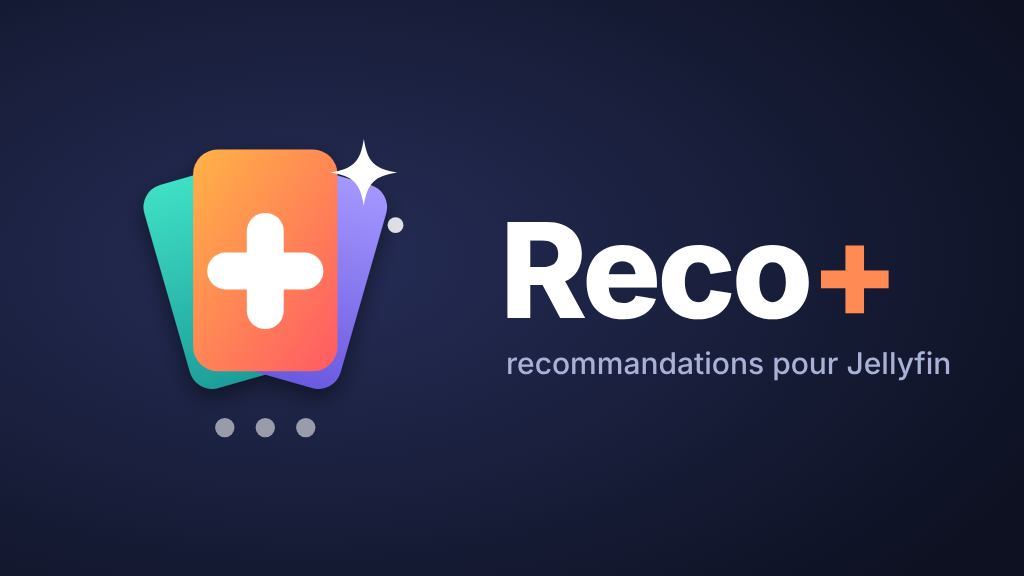
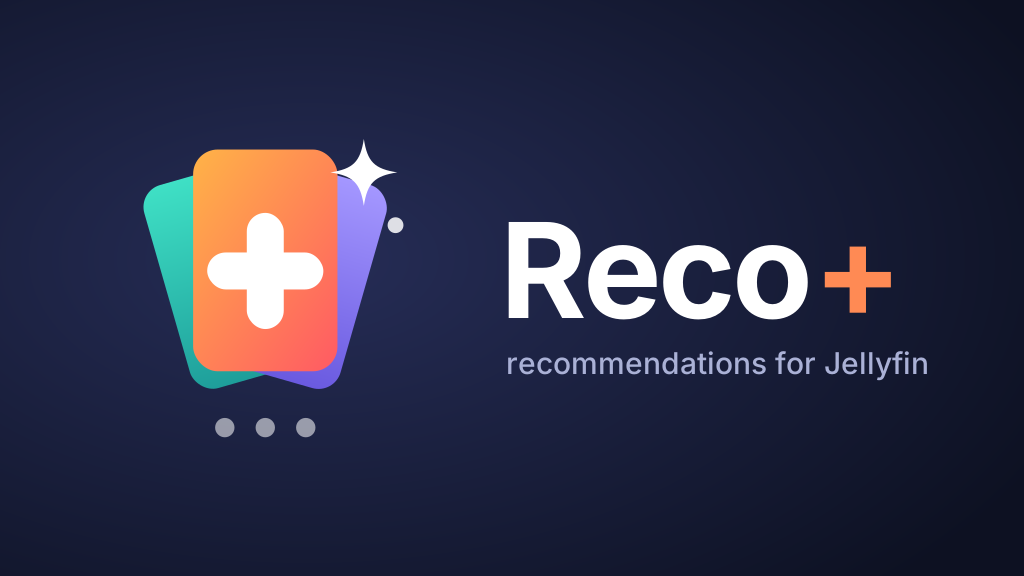
Everything defaults to English (1.0.27.0)
Server logs, plugin image tagline, catalogue description and overview,
changelog, home page fallback texts and the calibration export file name
are now in English. The interface language still follows Jellyfin by
default; French stays the source language of the interface texts.

Claude-Session: https://claude.ai/code/session_015P8WLcKmN2jYSQsWKAwqmE

diff --git a/src/Jellyfin.Plugin.RecoPlus/Web/configPage.html b/src/Jellyfin.Plugin.RecoPlus/Web/configPage.html
@@ -1155,7 +1155,7 @@
                 st.textContent = t('préparation…');
                 ApiClient.ajax({ type: 'GET', url: ApiClient.getUrl('RecoPlus/Calibration/Export'), dataType: 'text' }).then(function (text) {
                     var url = URL.createObjectURL(new Blob([text], { type: 'application/json' }));
-                    var a = el('a', { href: url, download: 'reco-calibrage-' + new Date().toISOString().slice(0, 10) + '.json' });
+                    var a = el('a', { href: url, download: 'reco-calibration-' + new Date().toISOString().slice(0, 10) + '.json' });
                     document.body.appendChild(a); a.click(); a.remove();
                     setTimeout(function () { URL.revokeObjectURL(url); }, 10000);
                     st.textContent = tf('téléchargé ({0} Ko)', Math.round(text.length / 1024));

diff --git a/src/Jellyfin.Plugin.RecoPlus/Web/client.js b/src/Jellyfin.Plugin.RecoPlus/Web/client.js
@@ -12,7 +12,7 @@
 (function () {
     'use strict';
     // textes de l'interface, remplacés par ceux du serveur (dans la langue retenue) dès la première réponse
-    var TX = { request: 'Demander', requested: '✓ demandé', failed: 'Demande impossible', series: 'série', because: 'Parce que tu as aimé {0}', title: 'À découvrir pour toi' };
+    var TX = { request: 'Request', requested: '✓ requested', failed: 'Request failed', series: 'series', because: 'Because you liked {0}', title: 'Discover for you' };
     if (window.__recoPlusClient) { return; }
     window.__recoPlusClient = true;
 

diff --git a/src/Jellyfin.Plugin.RecoPlus/Service/RecoService.cs b/src/Jellyfin.Plugin.RecoPlus/Service/RecoService.cs
@@ -122,7 +122,7 @@ public sealed class RecoService : IDisposable
                     }
                     catch (Exception ex) when (ex is not OutOfMemoryException)
                     {
-                        _log.LogWarning("Reco+ : vecteurs de contenu indisponibles ({Msg})", ex.Message);
+                        _log.LogWarning("Reco+: content vectors unavailable ({Msg})", ex.Message);
                     }
                 }
 
@@ -227,13 +227,13 @@ public sealed class RecoService : IDisposable
                         }
 
                         Status.UsersWithRecs = _recs.Count;
-                        _log.LogInformation("Reco+ : {N} listes rechargées depuis le cache disque", _recs.Count);
+                        _log.LogInformation("Reco+: {N} lists reloaded from the disk cache", _recs.Count);
                     }
                 }
             }
             catch (Exception ex) when (ex is IOException or JsonException or UnauthorizedAccessException)
             {
-                _log.LogWarning("Reco+ : cache disque illisible ({Type}), il sera recalculé", ex.GetType().Name);
+                _log.LogWarning("Reco+: unreadable disk cache ({Type}), it will be recomputed", ex.GetType().Name);
             }
 
             _loaded = true;
@@ -272,7 +272,7 @@ public sealed class RecoService : IDisposable
         catch (Exception ex) when (ex is IOException or UnauthorizedAccessException)
         {
             Interlocked.Exchange(ref _dirty, 1);
-            _log.LogWarning(ex, "Reco+ : écriture du cache impossible");
+            _log.LogWarning(ex, "Reco+: could not write the cache");
         }
     }
 
@@ -338,13 +338,13 @@ public sealed class RecoService : IDisposable
             {
                 Status.LastFullRun = DateTime.UtcNow;
                 Status.LastFullRunSeconds = Math.Round(sw.Elapsed.TotalSeconds, 1);
-                _log.LogInformation("Reco+ : calcul complet terminé en {S:0.0} s — {N} comptes, {E} titres hors bibliothèque ; Seerr : {Seerr}",
-                    sw.Elapsed.TotalSeconds, Status.UsersWithRecs, Status.ExternalTitles, Status.Seerr);
+                _log.LogInformation("Reco+: full computation finished in {S:0.0} s — {N} accounts, {E} titles outside the library; Seerr: {Seerr}",
+                    sw.Elapsed.TotalSeconds, Status.UsersWithRecs, Status.ExternalTitles, Texts.Render(Status.Seerr, "en"));
             }
             else
             {
                 Status.LastUserRun = DateTime.UtcNow;
-                _log.LogInformation("Reco+ : compte {User} recalculé en {Ms} ms", _users.GetUserById(only.Value)?.Username ?? only.Value.ToString("N"), sw.ElapsedMilliseconds);
+                _log.LogInformation("Reco+: account {User} recomputed in {Ms} ms", _users.GetUserById(only.Value)?.Username ?? only.Value.ToString("N"), sw.ElapsedMilliseconds);
             }
 
             Status.LastError = null;
@@ -356,7 +356,7 @@ public sealed class RecoService : IDisposable
         catch (Exception ex)
         {
             Status.LastError = $"{DateTime.UtcNow:u} {ex.GetType().Name}: {ex.Message}";
-            _log.LogError(ex, "Reco+ : échec du calcul (les listes précédentes restent servies)");
+            _log.LogError(ex, "Reco+: computation failed (previous lists are still served)");
         }
         finally
         {
@@ -465,7 +465,7 @@ public sealed class RecoService : IDisposable
             var extTargets = targets.Where(Active).ToList();
             if (only is null)
             {
-                _log.LogInformation("Reco+ : exploration Seerr pour {N} compte(s) actif(s) sur {T}", extTargets.Count, targets.Count);
+                _log.LogInformation("Reco+: Seerr exploration for {N} active account(s) out of {T}", extTargets.Count, targets.Count);
             }
             for (int i = 0; i < extTargets.Count; i++)
             {
@@ -473,7 +473,7 @@ public sealed class RecoService : IDisposable
                 var explored = await ExtendedCandidates(extTargets[i], ctx, lib, tmdbOf, seerr, cl, titles, colls, cfg, ct).ConfigureAwait(false);
                 if (_seerr.Down)
                 {
-                    _log.LogWarning("Reco+ : Seerr a lâché pendant l'exploration ; {N} compte(s) gardent leurs titres hors bibliothèque précédents", extTargets.Count - i);
+                    _log.LogWarning("Reco+: Seerr went down during exploration; {N} account(s) keep their previous titles outside the library", extTargets.Count - i);
                     break; // Seerr a lâché en route : ce compte et les suivants gardent leurs titres hors bibliothèque précédents
                 }
 

diff --git a/src/Jellyfin.Plugin.RecoPlus/Seerr/SeerrService.cs b/src/Jellyfin.Plugin.RecoPlus/Seerr/SeerrService.cs
@@ -204,7 +204,7 @@ public sealed class SeerrService
             }
 
             Failed(ex, ct);
-            _log.LogWarning("Reco+ : Seerr indisponible ({Msg}) — recommandations calculées sans lui", ex.Message);
+            _log.LogWarning("Reco+: Seerr unavailable ({Msg}) — recommendations computed without it", ex.Message);
             return Last = new SeerrSnapshot { Status = Texts.Pack("indisponible : {0}", SeerrException.TextOf(ex)) };
         }
     }
@@ -239,7 +239,7 @@ public sealed class SeerrService
             }
             catch (Exception ex) when (ex is IOException or JsonException or UnauthorizedAccessException)
             {
-                _log.LogWarning("Reco+ : cache des fiches Seerr illisible, repart de zéro");
+                _log.LogWarning("Reco+: unreadable Seerr details cache, starting from scratch");
             }
 
             // listes TMDb : gardées entre deux démarrages (sinon toute l'exploration est relue après un redémarrage)
@@ -269,7 +269,7 @@ public sealed class SeerrService
             }
             catch (Exception ex) when (ex is IOException or JsonException or UnauthorizedAccessException or NotSupportedException)
             {
-                _log.LogWarning("Reco+ : cache des listes Seerr illisible ({Type}), repart de zéro", ex.GetType().Name);
+                _log.LogWarning("Reco+: unreadable Seerr lists cache ({Type}), starting from scratch", ex.GetType().Name);
             }
 
             _loaded = true;
@@ -330,7 +330,7 @@ public sealed class SeerrService
             catch (Exception ex) when (ex is IOException or UnauthorizedAccessException)
             {
                 Interlocked.Exchange(ref _listsDirty, 1);
-                _log.LogWarning(ex, "Reco+ : écriture du cache des listes Seerr impossible");
+                _log.LogWarning(ex, "Reco+: could not write the Seerr lists cache");
             }
         }
 
@@ -349,7 +349,7 @@ public sealed class SeerrService
         catch (Exception ex) when (ex is IOException or UnauthorizedAccessException)
         {
             Interlocked.Exchange(ref _dirty, 1);
-            _log.LogWarning(ex, "Reco+ : écriture du cache Seerr impossible");
+            _log.LogWarning(ex, "Reco+: could not write the Seerr cache");
         }
     }
 
@@ -405,7 +405,7 @@ public sealed class SeerrService
         {
             Interlocked.Exchange(ref _downUntil, (DateTime.UtcNow + DownFor).Ticks);
             Interlocked.Exchange(ref _strikes, 0);
-            _log.LogWarning("Reco+ : Seerr ne répond plus ({Msg}) ; appels suspendus {Min} min, le calcul continue sans", ex.Message, DownFor.TotalMinutes);
+            _log.LogWarning("Reco+: Seerr is not responding ({Msg}); calls suspended for {Min} min, computation continues without it", ex.Message, DownFor.TotalMinutes);
         }
     }
 
@@ -461,7 +461,7 @@ public sealed class SeerrService
         {
             Failed(ex, ct);
             _failed[key] = DateTime.UtcNow + (ex is SeerrException { Status: System.Net.HttpStatusCode.NotFound } ? MissingTtl : FailedTtl);
-            _log.LogDebug("Reco+ : fiche {Key} indisponible ({Msg})", key, ex.Message);
+            _log.LogDebug("Reco+: details {Key} unavailable ({Msg})", key, ex.Message);
             return null;
         }
         finally
@@ -510,7 +510,7 @@ public sealed class SeerrService
                 catch (Exception ex) when (Transient(ex, ct))
                 {
                     Failed(ex, ct);
-                    _log.LogDebug("Reco+ : {Rel} de {Key} (page {Page}) indisponible ({Msg})", rel, key, page, ex.Message);
+                    _log.LogDebug("Reco+: {Rel} of {Key} (page {Page}) unavailable ({Msg})", rel, key, page, ex.Message);
                 }
                 finally
                 {
@@ -586,7 +586,7 @@ public sealed class SeerrService
         {
             Failed(ex, ct);
             _failed["l:" + key] = DateTime.UtcNow + (ex is SeerrException { Status: System.Net.HttpStatusCode.NotFound } ? MissingTtl : FailedTtl);
-            _log.LogDebug("Reco+ : liste {Key} indisponible ({Msg})", key, ex.Message);
+            _log.LogDebug("Reco+: list {Key} unavailable ({Msg})", key, ex.Message);
             return new List<SeerrResult>();
         }
         finally

diff --git a/src/Jellyfin.Plugin.RecoPlus/Service/RecoWorker.cs b/src/Jellyfin.Plugin.RecoPlus/Service/RecoWorker.cs
@@ -129,14 +129,14 @@ public sealed class RecoWorker : BackgroundService
                 var (tracked, missing) = _reco.UsersWithoutRecs();
                 if (missing.Count > 0 && missing.Count == tracked)
                 {
-                    _log.LogInformation("Reco+ : aucune liste en cache, calcul de tous les comptes");
+                    _log.LogInformation("Reco+: no cached list, computing all accounts");
                     ScheduleAll(TimeSpan.Zero);
                 }
                 else
                 {
                     foreach (var u in missing)
                     {
-                        _log.LogInformation("Reco+ : compte {User} sans liste, calcul de ce compte seulement", u);
+                        _log.LogInformation("Reco+: account {User} has no list, computing this account only", u);
                         _dueUsers[u] = DateTime.UtcNow;
                     }
                 }
@@ -171,7 +171,7 @@ public sealed class RecoWorker : BackgroundService
                     _dueUsers.Clear();
 
                     // calcul complet = tâche planifiée « Recalcul des recommandations » (visible, avec sa progression)
-                    _log.LogInformation("Reco+ : recalcul de tous les comptes mis en file (Tâches planifiées)");
+                    _log.LogInformation("Reco+: recomputation of all accounts queued (Scheduled Tasks)");
                     _tasks.QueueIfNotRunning<Tasks.NightlyTask>();
                     continue;
                 }
@@ -188,7 +188,7 @@ public sealed class RecoWorker : BackgroundService
                         catch (Exception ex) when (!stoppingToken.IsCancellationRequested)
                         {
                             // jamais d'arrêt du planificateur pour un calcul raté : l'erreur est dans l'état du moteur
-                            _log.LogError(ex, "Reco+ : échec du recalcul d'un compte");
+                            _log.LogError(ex, "Reco+: account recomputation failed");
                         }
                     }
                 }

diff --git a/src/Jellyfin.Plugin.RecoPlus/Integration/Notifier.cs b/src/Jellyfin.Plugin.RecoPlus/Integration/Notifier.cs
@@ -50,7 +50,7 @@ public sealed class Notifier
     public void Raise(string key, string title, string message)
     {
         _alerts[key] = new Alert(key, title, message, DateTime.UtcNow);
-        _log.LogWarning("Reco+ : {Title} — {Message}", Texts.Render(title, "fr"), Texts.Render(message, "fr"));
+        _log.LogWarning("Reco+: {Title} — {Message}", Texts.Render(title, "en"), Texts.Render(message, "en"));
         if (_sent.TryGetValue(key, out var last) && DateTime.UtcNow - last < TimeSpan.FromHours(24))
         {
             return;
@@ -75,7 +75,7 @@ public sealed class Notifier
         }
         catch (Exception ex)
         {
-            _log.LogWarning(ex, "Reco+ : écriture dans le journal d'activité impossible");
+            _log.LogWarning(ex, "Reco+: could not write to the activity log");
         }
 
         await SendWebhookAsync(title, message).ConfigureAwait(false);
@@ -155,7 +155,7 @@ public sealed class Notifier
         }
         catch (Exception ex) when (ex is HttpRequestException or TaskCanceledException or InvalidOperationException or FormatException)
         {
-            _log.LogWarning("Reco+ : webhook en échec ({Type})", ex.GetType().Name);
+            _log.LogWarning("Reco+: webhook failed ({Type})", ex.GetType().Name);
             return Texts.Pack("échec : {0}", ex.GetType().Name);
         }
     }

diff --git a/src/Jellyfin.Plugin.RecoPlus/Data/JellyfinEnhancedReader.cs b/src/Jellyfin.Plugin.RecoPlus/Data/JellyfinEnhancedReader.cs
@@ -95,7 +95,7 @@ public sealed class JellyfinEnhancedReader
             catch (Exception ex) when (ex is IOException or JsonException or UnauthorizedAccessException or InvalidDataException)
             {
                 errors++;
-                _log.LogWarning("Reco+ : masquages Jellyfin Enhanced illisibles pour un compte ({Msg})", ex.Message);
+                _log.LogWarning("Reco+: unreadable Jellyfin Enhanced hidden titles for an account ({Msg})", ex.Message);
             }
         }
 
@@ -120,7 +120,7 @@ public sealed class JellyfinEnhancedReader
         catch (Exception ex) when (ex is IOException or JsonException or UnauthorizedAccessException or InvalidDataException)
         {
             errors++;
-            _log.LogWarning("Reco+ : avis Jellyfin Enhanced illisibles ({Msg})", ex.Message);
+            _log.LogWarning("Reco+: unreadable Jellyfin Enhanced reviews ({Msg})", ex.Message);
         }
 
         State = errors > 0
@@ -148,7 +148,7 @@ public sealed class JellyfinEnhancedReader
 
         if (fi.Length > MaxBytes)
         {
-            throw new InvalidDataException("fichier trop gros");   // i18n:skip (interne, jamais affiché)
+            throw new InvalidDataException("file too large");   // i18n:skip (interne, jamais affiché)
         }
 
         using var s = fi.OpenRead();

diff --git a/src/Jellyfin.Plugin.RecoPlus/Service/CalibrationService.cs b/src/Jellyfin.Plugin.RecoPlus/Service/CalibrationService.cs
@@ -77,7 +77,7 @@ public sealed class CalibrationService
             var options = Plugin.Instance.Configuration.BuildCalibrationOptions();
             Report = await Task.Run(() => Calibrator.Calibrate(ds, cur, new Progress<double>(p => progress.Report(Math.Max(1, p))), ct, method: method, options: options), ct).ConfigureAwait(false);
             ReportAt = DateTime.UtcNow;
-            _log.LogInformation("Reco+ : calibrage terminé — {Verdict}", Report.VerdictIn("fr"));
+            _log.LogInformation("Reco+: calibration finished — {Verdict}", Report.VerdictIn("en"));
         }
         catch (OperationCanceledException)
         {
@@ -87,7 +87,7 @@ public sealed class CalibrationService
         catch (Exception ex)
         {
             Error = ex.GetType().Name + ": " + ex.Message;
-            _log.LogError(ex, "Reco+ : calibrage en échec");
+            _log.LogError(ex, "Reco+: calibration failed");
             throw;
         }
     }

diff --git a/src/Jellyfin.Plugin.RecoPlus/Integration/CompatibilityGuard.cs b/src/Jellyfin.Plugin.RecoPlus/Integration/CompatibilityGuard.cs
@@ -110,7 +110,7 @@ public sealed class CompatibilityGuard : IHostedService
     /// <summary>Signale une erreur ; 5 en 10 minutes coupent la partie jusqu'au redémarrage.</summary>
     public void ReportError(Feature f, Exception ex)
     {
-        _log.LogWarning(ex, "Reco+ : erreur dans {Feature} (repli sur Jellyfin)", f);
+        _log.LogWarning(ex, "Reco+: error in {Feature} (falling back to Jellyfin)", f);
         var q = _errors.GetOrAdd(f, _ => new Queue<DateTime>());
         lock (q)
         {
@@ -149,7 +149,7 @@ public sealed class CompatibilityGuard : IHostedService
             }
             catch (Exception ex)
             {
-                _log.LogError(ex, "Reco+ : vérifications de compatibilité en échec");
+                _log.LogError(ex, "Reco+: compatibility checks failed");
             }
         }, CancellationToken.None);
         return Task.CompletedTask;

diff --git a/src/Jellyfin.Plugin.RecoPlus/Data/HistoryStore.cs b/src/Jellyfin.Plugin.RecoPlus/Data/HistoryStore.cs
@@ -64,7 +64,7 @@ public sealed class HistoryStore : IDisposable
         catch (Exception ex) when (ex is IOException or UnauthorizedAccessException)
         {
             Interlocked.Exchange(ref _dirty, 1);
-            _log.LogWarning(ex, "Reco+ : écriture de l'historique des premiers lancements impossible");
+            _log.LogWarning(ex, "Reco+: could not write the first-play history");
         }
     }
 
@@ -98,7 +98,7 @@ public sealed class HistoryStore : IDisposable
             }
             catch (Exception ex) when (ex is IOException or JsonException or UnauthorizedAccessException)
             {
-                _log.LogWarning(ex, "Reco+ : historique des premiers lancements illisible, repart de zéro");
+                _log.LogWarning(ex, "Reco+: unreadable first-play history, starting from scratch");
             }
 
             _loaded = true;

diff --git a/src/Jellyfin.Plugin.RecoPlus/Data/ImpressionStore.cs b/src/Jellyfin.Plugin.RecoPlus/Data/ImpressionStore.cs
@@ -187,7 +187,7 @@ public sealed partial class ImpressionStore : IDisposable
                 _dirty = true;
             }
 
-            _log.LogWarning(ex, "Reco+ : écriture des affichages impossible");
+            _log.LogWarning(ex, "Reco+: could not write the impressions");
         }
     }
 
@@ -228,7 +228,7 @@ public sealed partial class ImpressionStore : IDisposable
             }
             catch (Exception ex) when (ex is IOException or JsonException or UnauthorizedAccessException)
             {
-                _log.LogWarning("Reco+ : fichier des affichages illisible ({Type}), il repart de zéro", ex.GetType().Name);
+                _log.LogWarning("Reco+: unreadable impressions file ({Type}), starting from scratch", ex.GetType().Name);
             }
         }
     }

diff --git a/src/Jellyfin.Plugin.RecoPlus/Data/SecretStore.cs b/src/Jellyfin.Plugin.RecoPlus/Data/SecretStore.cs
@@ -46,7 +46,7 @@ public sealed class SecretStore
     {
         if (Array.IndexOf(Known, name) < 0)
         {
-            throw new ArgumentException("secret inconnu", nameof(name));
+            throw new ArgumentException("unknown secret", nameof(name));   // i18n:skip (interne)
         }
 
         lock (_lock)
@@ -99,7 +99,7 @@ public sealed class SecretStore
         }
         catch (Exception ex) when (ex is IOException or JsonException or UnauthorizedAccessException)
         {
-            _log.LogWarning("Reco+ : fichier de secrets illisible ({Type}), secrets considérés absents", ex.GetType().Name);
+            _log.LogWarning("Reco+: unreadable secrets file ({Type}), secrets treated as missing", ex.GetType().Name);
             _cache = new();
         }
     }
